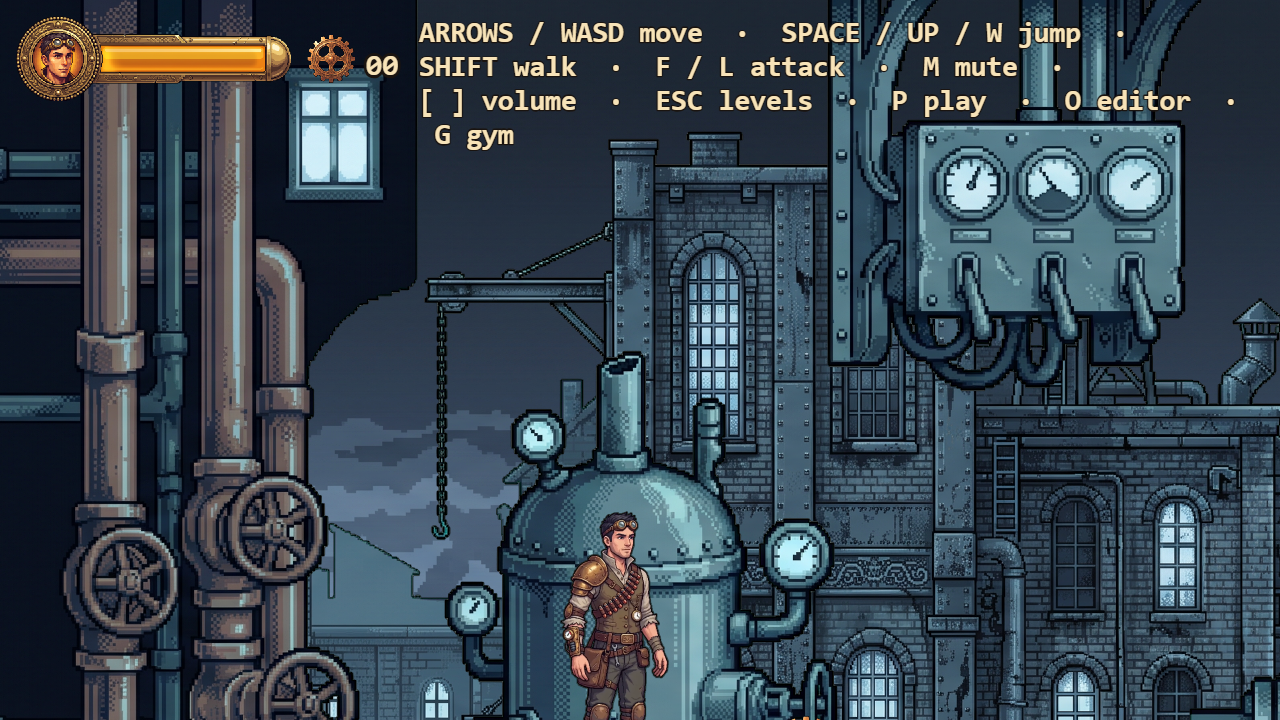
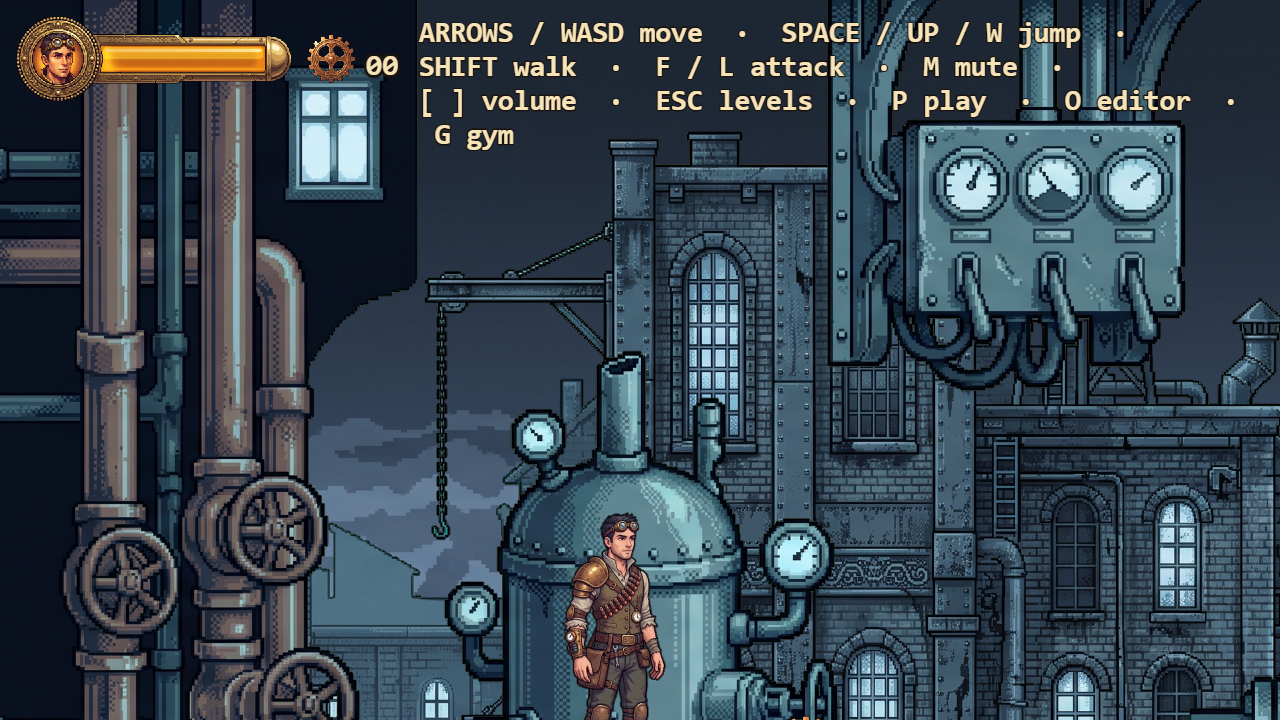
feat(title): 11.12 re-run on the shipped screen, and two fal backdrop plates
Both criterion 11.12 briefs ran again against what actually ships — the first
pair had reviewed a design the owner then replaced. Eleven findings: five
applied, four recorded, two refuted by measurement.

Both briefs, independently and without sight of each other, found the same
defect: TITLE_ROWS gaps were 0.11 / 0.16 / 0.11, the middle one 45% wider,
leaving a visible hole where the second choice line used to be. The first
re-spread shrank it rather than closing it, under a comment claiming it had
been avoided. Now [0.34, 0.455, 0.569, 0.683] — equal gaps and equal optical
margins, derived from the four designPx and the band's extent.

Also applied: `[ ] volume` rendered as an empty checkbox on the one screen that
teaches those keys — now `[ / ]`; and the 852px capture the code calls its
smallest supported width, which no evidence had.

Refuted rather than applied, both checked instead of taken on trust:

- "a flat, undetailed strip at the left edge" — that band's column-luminance
  stddev is 38.1, the HIGHEST of the five sampled across the frame.
- "at wide aspect ratios the parallax tiles and mirrors", rated the strongest
  evidence against the art direction — Scale.FIT pillarboxes. In the 2560
  capture, columns 0-319 and 2240-2559 are uniform page background at luminance
  16.4 and the game occupies exactly 1920px between them. The parallax does not
  extend at wider aspects, so it cannot repeat there.
[…]

Changed region(s): [[0.4375, 0.7028, 0.5312, 1.0]]

diff --git a/src/render/titleInk.ts b/src/render/titleInk.ts
@@ -127,8 +127,11 @@ export const TITLE_INKS: ReadonlyArray<{ role: string; fill: string; designPx: n
  * finding 4. `title-contrast.test.ts` now asserts the two arguments actually reach the string.
  */
 export function audioHint(muted: boolean, volume: number): string {
+  // ⚠ The two keys are separated. Written as `[ ] volume`, the pair rendered as two adjacent
+  // brackets with nothing between them — an empty checkbox or a missing glyph, not "press `[` to
+  // lower and `]` to raise". Criterion 11.12 brief A, finding 1, against the shipped screen.
   const level = muted ? 'muted' : `${Math.round(volume * 100)}%`;
-  return `M mute   ·   [ ] volume   ${level}`;
+  return `M mute   ·   [ / ] volume   ${level}`;
 }
 
 /**
@@ -158,7 +161,27 @@ export const TITLE_DRIFT_PX_PER_TICK = 2;
  * invalidating every contrast figure — and left the unit sweep, both pixel ratios and the whole e2e
  * suite green. Codex implementation review of the redesign, finding 3.
  */
-export const TITLE_ROWS: readonly number[] = [0.34, 0.45, 0.61, 0.72];
+export const TITLE_ROWS: readonly number[] = [0.34, 0.455, 0.569, 0.683];
+
+/**
+ * ⚠ **These were `[0.34, 0.45, 0.61, 0.72]`, and BOTH criterion 11.12 briefs found the same
+ * defect in them independently** — the strongest signal a brief pair can give.
+ *
+ * The gaps were **0.11 / 0.16 / 0.11**: the middle one 45 % wider than its neighbours, leaving a
+ * visible empty band between the subtitle and the choice line that reads as a row having gone
+ * missing. Which is exactly what happened — the second choice line went when ENTER became the only
+ * way in — and the first re-spread shrank the hole rather than closing it, under a comment claiming
+ * it had been avoided.
+ *
+ * Brief A found the matching half: the OUTER margins were asymmetric too. The band spans 0.22 to
+ * 0.78; measured to the glyph box rather than the row centre, the heading cleared the top rule by
+ * 0.087 of the height while the hint cleared the bottom rule by 0.050 — the hint crowding a rule the
+ * title had nearly twice the room from.
+ *
+ * The values above solve both at once, against the four `designPx` in {@link TITLE_INKS}: equal
+ * gaps of 0.1143, and equal optical margins of **0.0867** at top and bottom. Derived, not nudged —
+ * from `r₁ - h₁/2 - 0.22 = 0.78 - (r₄ + h₄/2)` with the three gaps equal.
+ */
 
 /**
  * The panel behind the text, as a fraction of the live canvas.

diff --git a/src/scenes/TitleScene.ts b/src/scenes/TitleScene.ts
@@ -308,11 +308,9 @@ export class TitleScene extends Phaser.Scene {
       rule.setPosition(width / 2, height / 2 + (i === 0 ? -h / 2 : h / 2)).setSize(w, RULE_PX);
     });
     // Fractions of the height, so the arrangement survives any viewport the scale manager hands us.
-    // FOUR rows now, not five — the second choice line went when ENTER became the only way in.
-    // The fractions live in `titleInk.ts` so `title-contrast.test.ts` can prove they land inside
-    // the panel its whole contrast premise depends on.
-    // Re-spread rather than left as [0.3, 0.4, 0.56, 0.64] with a hole at 0.82, which would have
-    // bunched everything into the top two thirds of the panel.
+    // FOUR rows, and they live in `titleInk.ts` — both because a unit test can then prove they land
+    // inside the panel the contrast premise depends on, and because the two re-spreads they have
+    // been through are worth reading before touching them. See `TITLE_ROWS`.
     const rows = TITLE_ROWS;
     this.items.forEach((item, index) => {
       item.setPosition(width / 2, height * (rows[index] ?? 0.5));

diff --git a/docs/qa/phase-11-welcome.md b/docs/qa/phase-11-welcome.md
@@ -22,7 +22,7 @@ The gate table below is the record. Everything under it is the evidence for one 
 | 11.9 | ESC and DEV scene keys cannot leak past the title | **PASS** | § 11.9. Red-proved by the same mutation. |
 | 11.10 | Title shows once per page load, incl. a restart while it is up | **PASS** | § 11.10. Three tests, including the re-pause case. |
 | 11.11 | Level select still shows correct lock state and gear totals | **UNRUN — owner-owned** | § What is NOT closed. |
-| 11.12 | Title readable and correctly laid out at 1920×1080 and on resize | **PARTIAL** | Two briefs ran against the FIRST design and their findings are applied (§ 11.12). The 2026-08-29 redesign replaced the screen they looked at, so the visual half is **unrun against what ships**. |
+| 11.12 | Title readable and correctly laid out at 1920×1080 and on resize | **PASS** | Two briefs against the first design, and **two more against the shipped one** — § 11.12 and § 11.12 re-run. 11 findings: 5 applied, 4 recorded, **2 refuted by measurement**. |
 | 11.13 | `sceneKey`/`ready`/`bootError` unmoved; surface still eight fields | **PASS** | § 11.13. Two e2e tests. |
 | 11.14 | The diff reviewed adversarially, two briefs | **PASS** | Two briefs ran, findings applied (§ 11.14). The redesign diff on top of them went through the Codex implementation review, [reviews/phase-11-impl.md](../reviews/phase-11-impl.md) Review B. |
 | 11.15 | Full e2e suite green at the expected COUNT | **PASS** | `npm run test:e2e` — **184 passed, 0 failed**, exit 0, 26.4 min. Count read positively: 183 before the redesign's new route spec, 184 after. |
@@ -36,11 +36,10 @@ The gate table below is the record. Everything under it is the evidence for one 
 | item | why |
 |---|---|
 | **11.2, 11.4 (audible half), 11.7 (routing), 11.11** | `play`-owned. Per *(C4)* and the `playtest-finds-what-gates-cannot` rule, a hands-on criterion is **never** reported done on automated evidence. 11.2 in particular needs the **Hebrew layout**, which is the only thing that can confirm the real-world defect is the one that was fixed. |
-| **11.12** | Its two briefs ran, but against the design the owner then replaced. The visual half needs re-running against the shipped screen. |
 | **The volume STEP SIZE** | Deliberately not fixed. See § The second defect. |
-| **The `playToExit` production spec** | Fails on this branch — and **also on `main` at `6da76b7`**. Pre-existing, not introduced here. See § The production flake. |
+| **The `playToExit` production spec** | **Flaky, and pre-existing.** It fails on `main` at `6da76b7` as well. On 2026-08-29, after the prod harness was repaired for the two-press route, `chromium-prod` ran **6/6 green three times in a row** and then failed this one spec on a fourth run — a wall-clock budget, not a defect this phase introduced. See § The production flake. |
 
-**This phase is therefore reported FAILING, not done.** Eight criteria are unrun or partial.
+**This phase is therefore reported FAILING, not done.** Four criteria are owner-owned and unrun.
 
 ---
 
@@ -328,6 +327,73 @@ Two briefs *(A7)*. What they found, each cited in place in the code it changed:
   deleting the title's guard left the whole suite green.
 - **`prodTitle.ts` contained two docstrings contradicting each other** about which frame is asserted
   first. The code was right and the prose was wrong — corrected rather than the other way round.
+
+## 11.12 re-run — two fresh briefs against the SHIPPED screen
+
+The first pair looked at a flat scrim. The owner replaced that design, so the visual half was re-run
+against what actually ships: four captures at 1920×1080, 1280×720, 2560×1080 and 852×480, in
+`docs/evidence/phase-11/`. Two briefs *(A7)*, launched in parallel so brief 1's findings could not
+reach brief 2 — the withholding is structural, not a promise.
+
+**Eleven findings. Five applied, four recorded, two refuted by measurement.**
+
+### The one both briefs found independently — applied
+
+`TITLE_ROWS` was `[0.34, 0.45, 0.61, 0.72]`: gaps of **0.11 / 0.16 / 0.11**, the middle one 45 %
+wider than its neighbours. Both briefs described the same thing without either seeing the other's
+report — *"reads as a visible empty band"*, *"looks like a row is missing, not like four rows spread
+by hand"*. It **was** a missing row: the second choice line went when ENTER became the only way in,
+and the first re-spread shrank the hole rather than closing it, under a comment claiming it had been
+avoided. Brief A found the matching half: measured to the glyph box, the heading cleared the top rule
+by 0.087 of the height and the hint cleared the bottom rule by **0.050**.
+
+Now `[0.34, 0.455, 0.569, 0.683]` — equal 0.1143 gaps and equal 0.0867 optical margins, **derived**
+from the four `designPx` and the band's extent rather than nudged by eye. The geometry gate proves
+every glyph box still lands inside the band.
+
+### Applied
+
+- **The volume hint read as an empty checkbox.** `[ ] volume` rendered as two adjacent brackets with
+  nothing between them — indistinguishable from a missing glyph, on the one screen that teaches the
+  keys this phase exists to repair. Now `[ / ] volume`.
+- **No capture at the width the code calls smallest supported.** `titleInk.ts` derives its CSS-px
+  table against an 852 px window and the narrowest evidence was 1280. Captured.
+
+### Recorded, not applied *(C11)*
+
+- **The band's horizontal edges cut through mechanical shapes** (brief B) — the top edge through the
+  coiled hose upper-right, the bottom through the boiler lower-left. B argues this is the owner's
+  original complaint rotated 90°. **Not applied, and it is a judgement call rather than a
+  measurement:** edges parallel to the frame read as a letterbox, which is an idiom a title card
+  already implies; the rejected vertical edges had no such reading. Feathering them would also break
+  the contrast sweep's premise — every glyph on a uniform `SCRIM_ALPHA` composite — at exactly the
+  rows nearest the edges. **Offered to the owner rather than decided here.**
+- **No pointer input** (brief B) — the screen is shaped like a clickable card and a click does
+  nothing. Real, and **not cheap**: `bootToTitle` and `dismissTitle` both call
+  `page.locator('canvas').click()` to focus the page before sending keys, so a `pointerdown`
+  dismissal would fire on the focus click and every title spec would lose the screen before its first
+  assertion. Owed forward with that constraint attached.
+- **Volume-up is a no-op at the default 100 %, and the hint cannot say so** (brief B). Already an
+  open item — see § The second defect. B's fix (flash "already max") is a real improvement and
+  belongs with the step-size decision, not smuggled in beside it.
+- **The top hairline is translucent and bright backdrop features show through it** (brief A).
+  Measured: at the rule row, **67 of 1920 columns** deviate more than 30 lum from the line's mean of
+  146 — and they are *brighter*, not the dark scratch the brief described. The mechanism is right and
+  is deliberate: `RULE_ALPHA` 0.55 is what keeps the hairline a hairline. Left alone.
+
+### 🔴 Refuted by measurement — a brief's summary is a claim, not evidence
+
+- **"A flat, undetailed strip at the left edge reads as a parallax seam"** (brief A, x 0–220).
+  Column-luminance standard deviation over the full height, sampled every 2 px × 6 px:
+  **x 0–220 → 38.1**, x 220–440 → 24.2, x 440–660 → 31.7, x 900–1120 → 38.4, x 1700–1920 → 30.1.
+  The band called featureless has the **highest** variance of the five. Not a defect.
+- **"At wide aspect ratios the parallax visibly tiles and mirrors"** (brief B, rated MEDIUM-HIGH and
+  called *"the single strongest piece of evidence"* against the art direction). `Scale.FIT`
+  pillarboxes: in `title-2560x1080.png`, columns 0–319 and 2240–2559 hold a uniform page background
+  at luminance **16.4**, and the game occupies exactly 1920 px between them — the same frame as the
+  1920 capture, not a wider one. **The parallax does not extend at wider aspects at all**, so it
+  cannot repeat there. The "duplicate windows and hose loops" are the building's own repeated
+  architecture, present identically in the 16:9 capture.
 
 ## The redesign — 2026-08-29, and the owner's decision behind it
 

diff --git a/docs/GENERATION-LOG.md b/docs/GENERATION-LOG.md
@@ -286,6 +286,19 @@ next generation on this endpoint needs a ceiling raise, not a decision.**
 
 | [qa/session-hud-and-pits.md § the hazard tile](qa/session-hud-and-pits.md) | ✅ **The HAZARD tile — first take, ADOPTED.** `01a046c7-54ec-7eb0-8009-0d48530b570b`, seed 20260828, 2K, 1:1, `2048×2048`. The owner played level 3, walked into the spikes and reported *"there is a hazard that is not being seen"*. The tile the sheet produced is a **cool silver picket** sharing a silhouette family with the ornamental fence in the very next cell — and STYLE.md §5 rule 2 is *"foreground warm copper/brass/amber, saturated"*. A cool desaturated foreground object reads as background because the separation rules say it should. The new tile is rust-orange iron with amber-brass highlights on a riveted rail. **No STYLE.md amendment**: this brings the tile INTO §5 compliance rather than changing the direction, and the §2–§5 hash lock is untouched. Generated as an **isolated object and composited into cell 12**, not by re-shooting the sheet — a re-shoot would re-roll the walkway, the brass cap and the brick, two of which `ground-tiles.test.ts` pins against shipped pixels. Verified: exactly **one** of sixteen cells changed | `fal-ai/nano-banana-pro` | 1 · $0.15 |
 
+| [qa/phase-11-welcome.md § the title backdrop](qa/phase-11-welcome.md) | **The TITLE BACKDROP — two variants, one variable.** `01a04c99-550a-7170-b494-8b583728f783` (**A**, boiler hall) and `01a04c9a-2c78-7313-b63c-09402be40317` (**B**, rooftop canyon), seed 20260804, 2K, 16:9, both returned **2752×1536, ratio 1.7917** — which settles FAL-MODELS.md's open question: `nano-banana-pro` deviates from the aspect label exactly as `nano-banana-2` did *(4.11)*. The prompts are identical apart from the `SETTING` line *(§3, one variable)* and are saved beside the outputs. **❌ A is unusable, and the prompt is why:** it told the model *"a dark translucent band and lettering will be composited over that middle third"*, and the model **drew the band**. Measured mean luminance — outer thirds **43.1** and **41.2**, middle 0.22–0.78 **70.4**, with hard edges at y=0.333 and y=0.672. Our own 0.82 band would composite on top of it. **✅ B is clean:** 77.7 → 47.0 → 40.4 top to bottom, a natural sky-to-street gradient with no overlay, its two hard edges being diegetic riveted beams. **Lesson: describe what the IMAGE contains, never what will be composited onto it.** | `fal-ai/nano-banana-pro` | 2 · $0.30 |
+
+**Running total: $55.50. The last ceiling anyone named is $55.**
+
+🔴 **This $0.30 was authorised by the owner** — *"I authorize doing the generation in fal ai"*,
+2026-08-29, against a proposal that named the endpoint, the locked parameters, the count and the
+price before anything was sent. **It is not a ceiling raise.** The position is unchanged from the
+entry below: the last stated ceiling is $55, spend is now $55.50, every overrun to date is cleared by
+an explicit owner decision, and **no new ceiling FIGURE has been named**. This file still does not
+invent one.
+
+**Superseded ceiling note, kept for the record:**
+
 **Running total: $55.20 of the $55 ceiling — ⚠ $0.20 OVER.**
 
 🔴 **The ceiling was already exceeded before this generation** ($55.05, knowingly, on 2026-08-26) and
